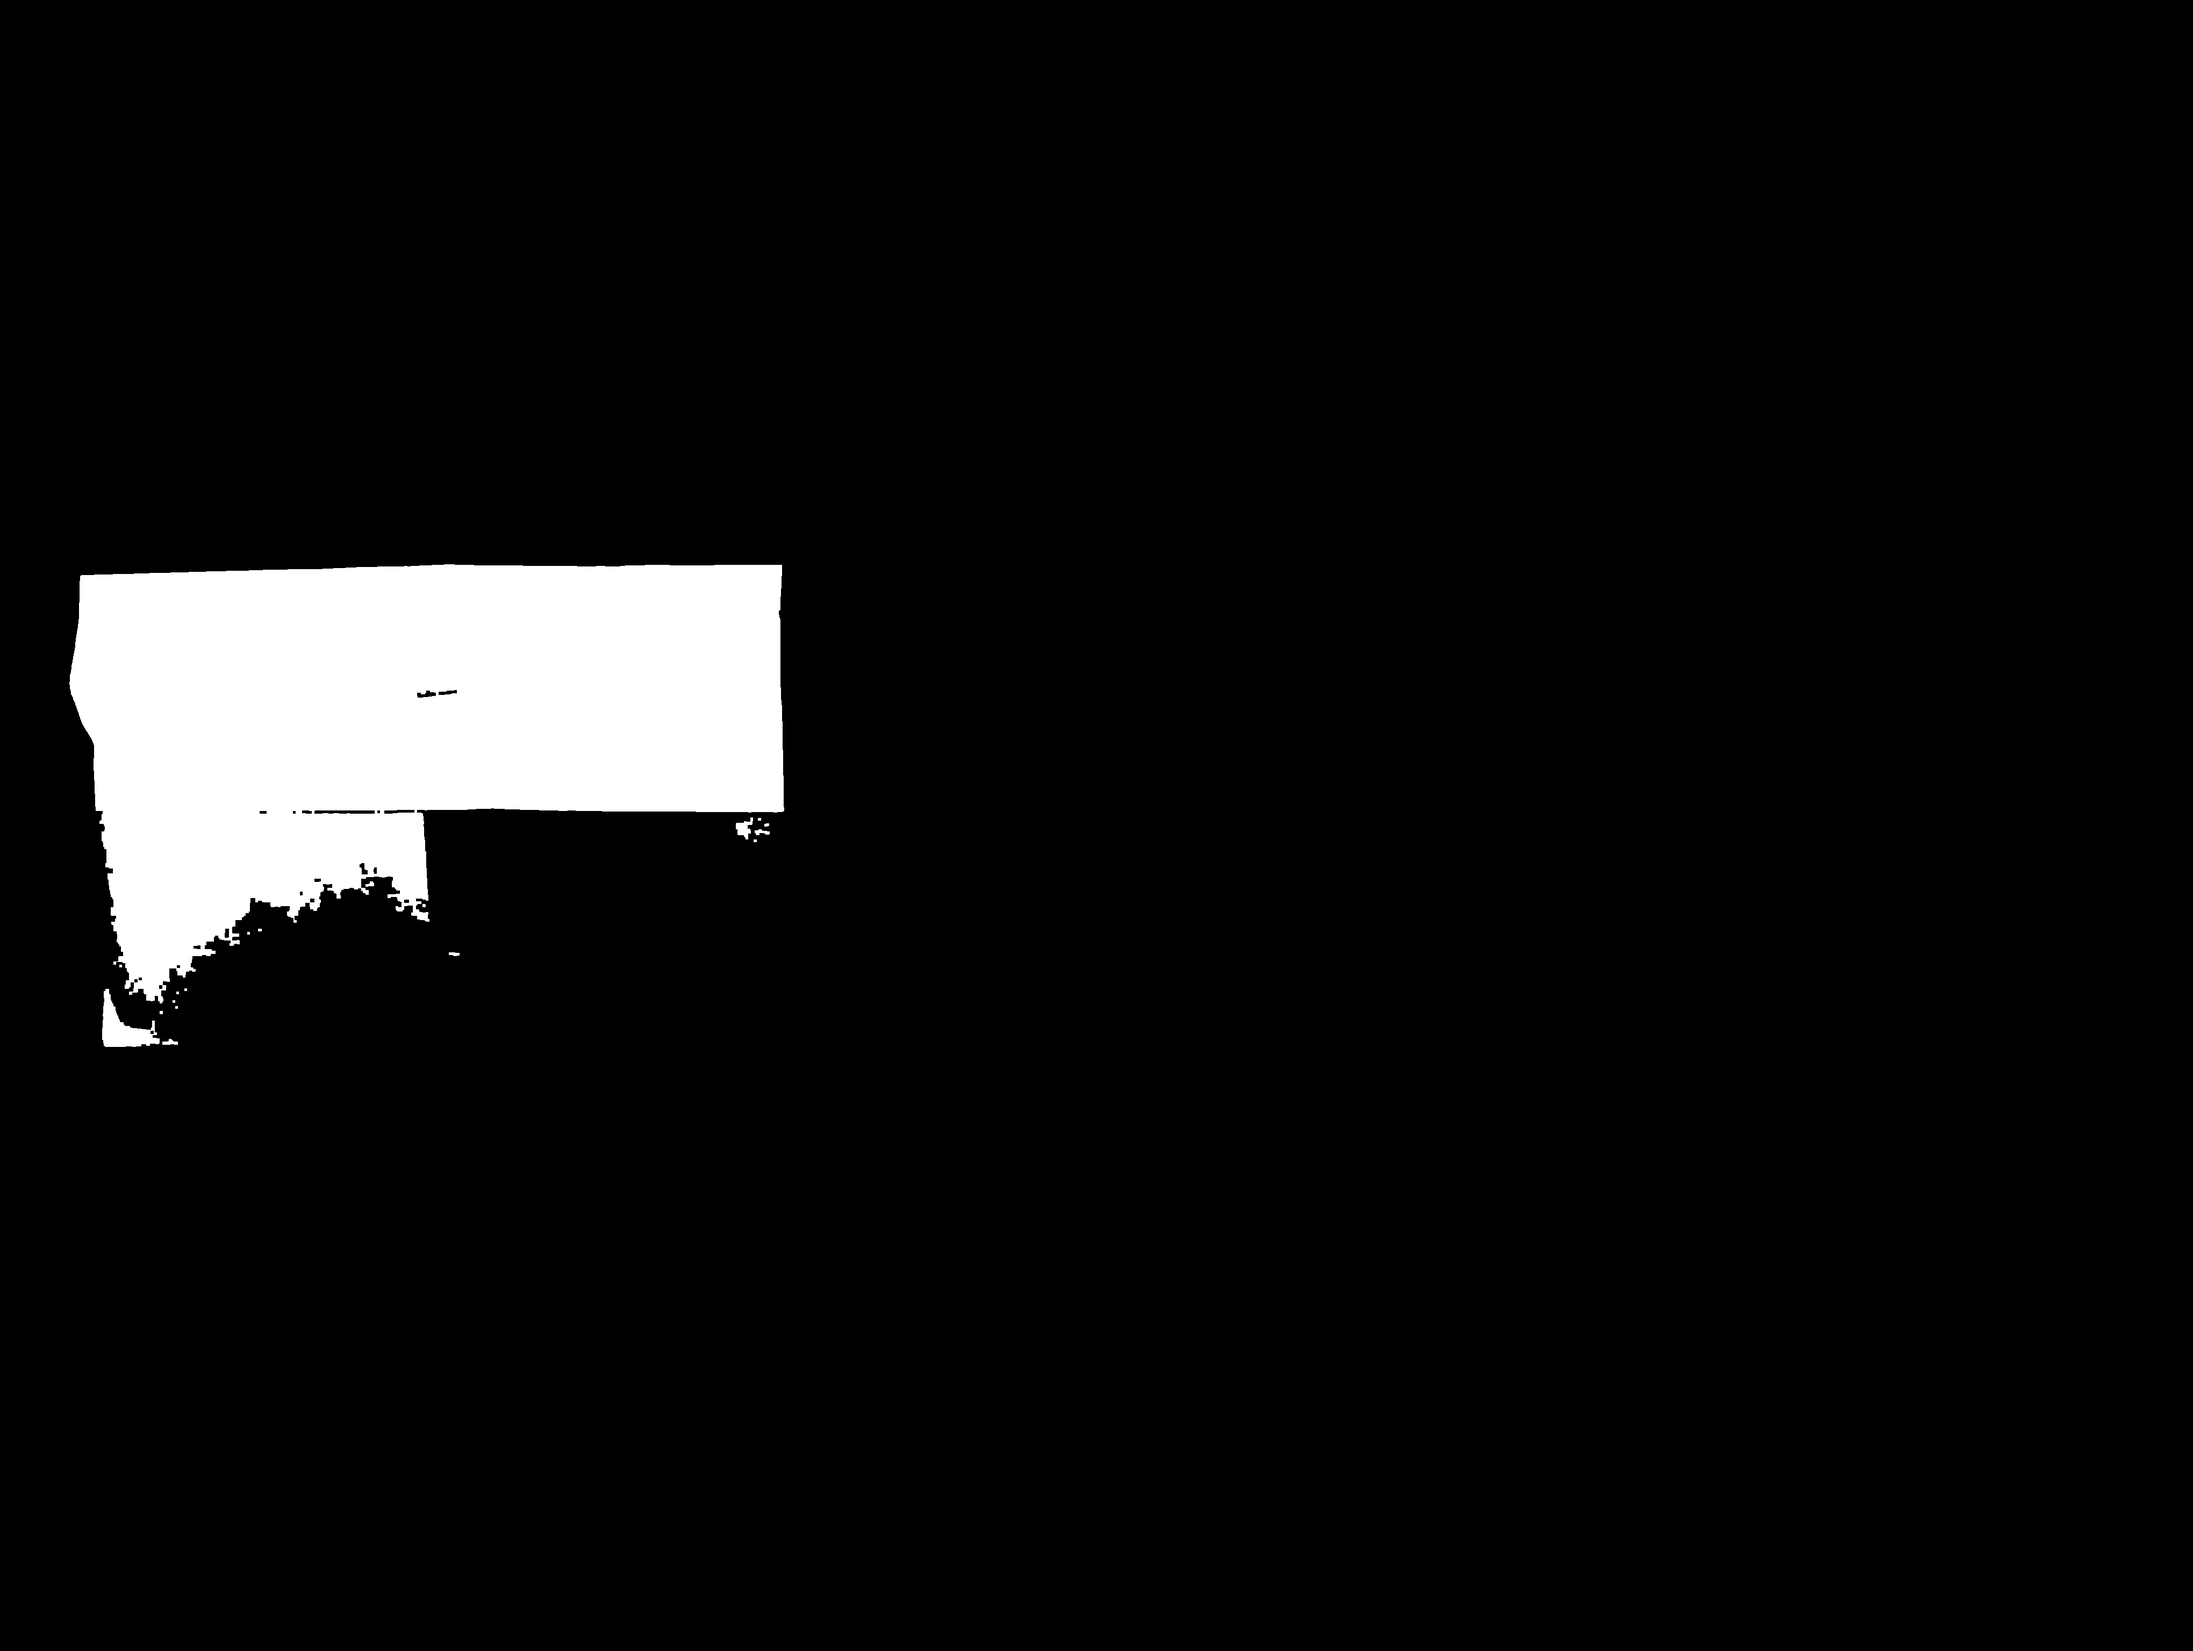
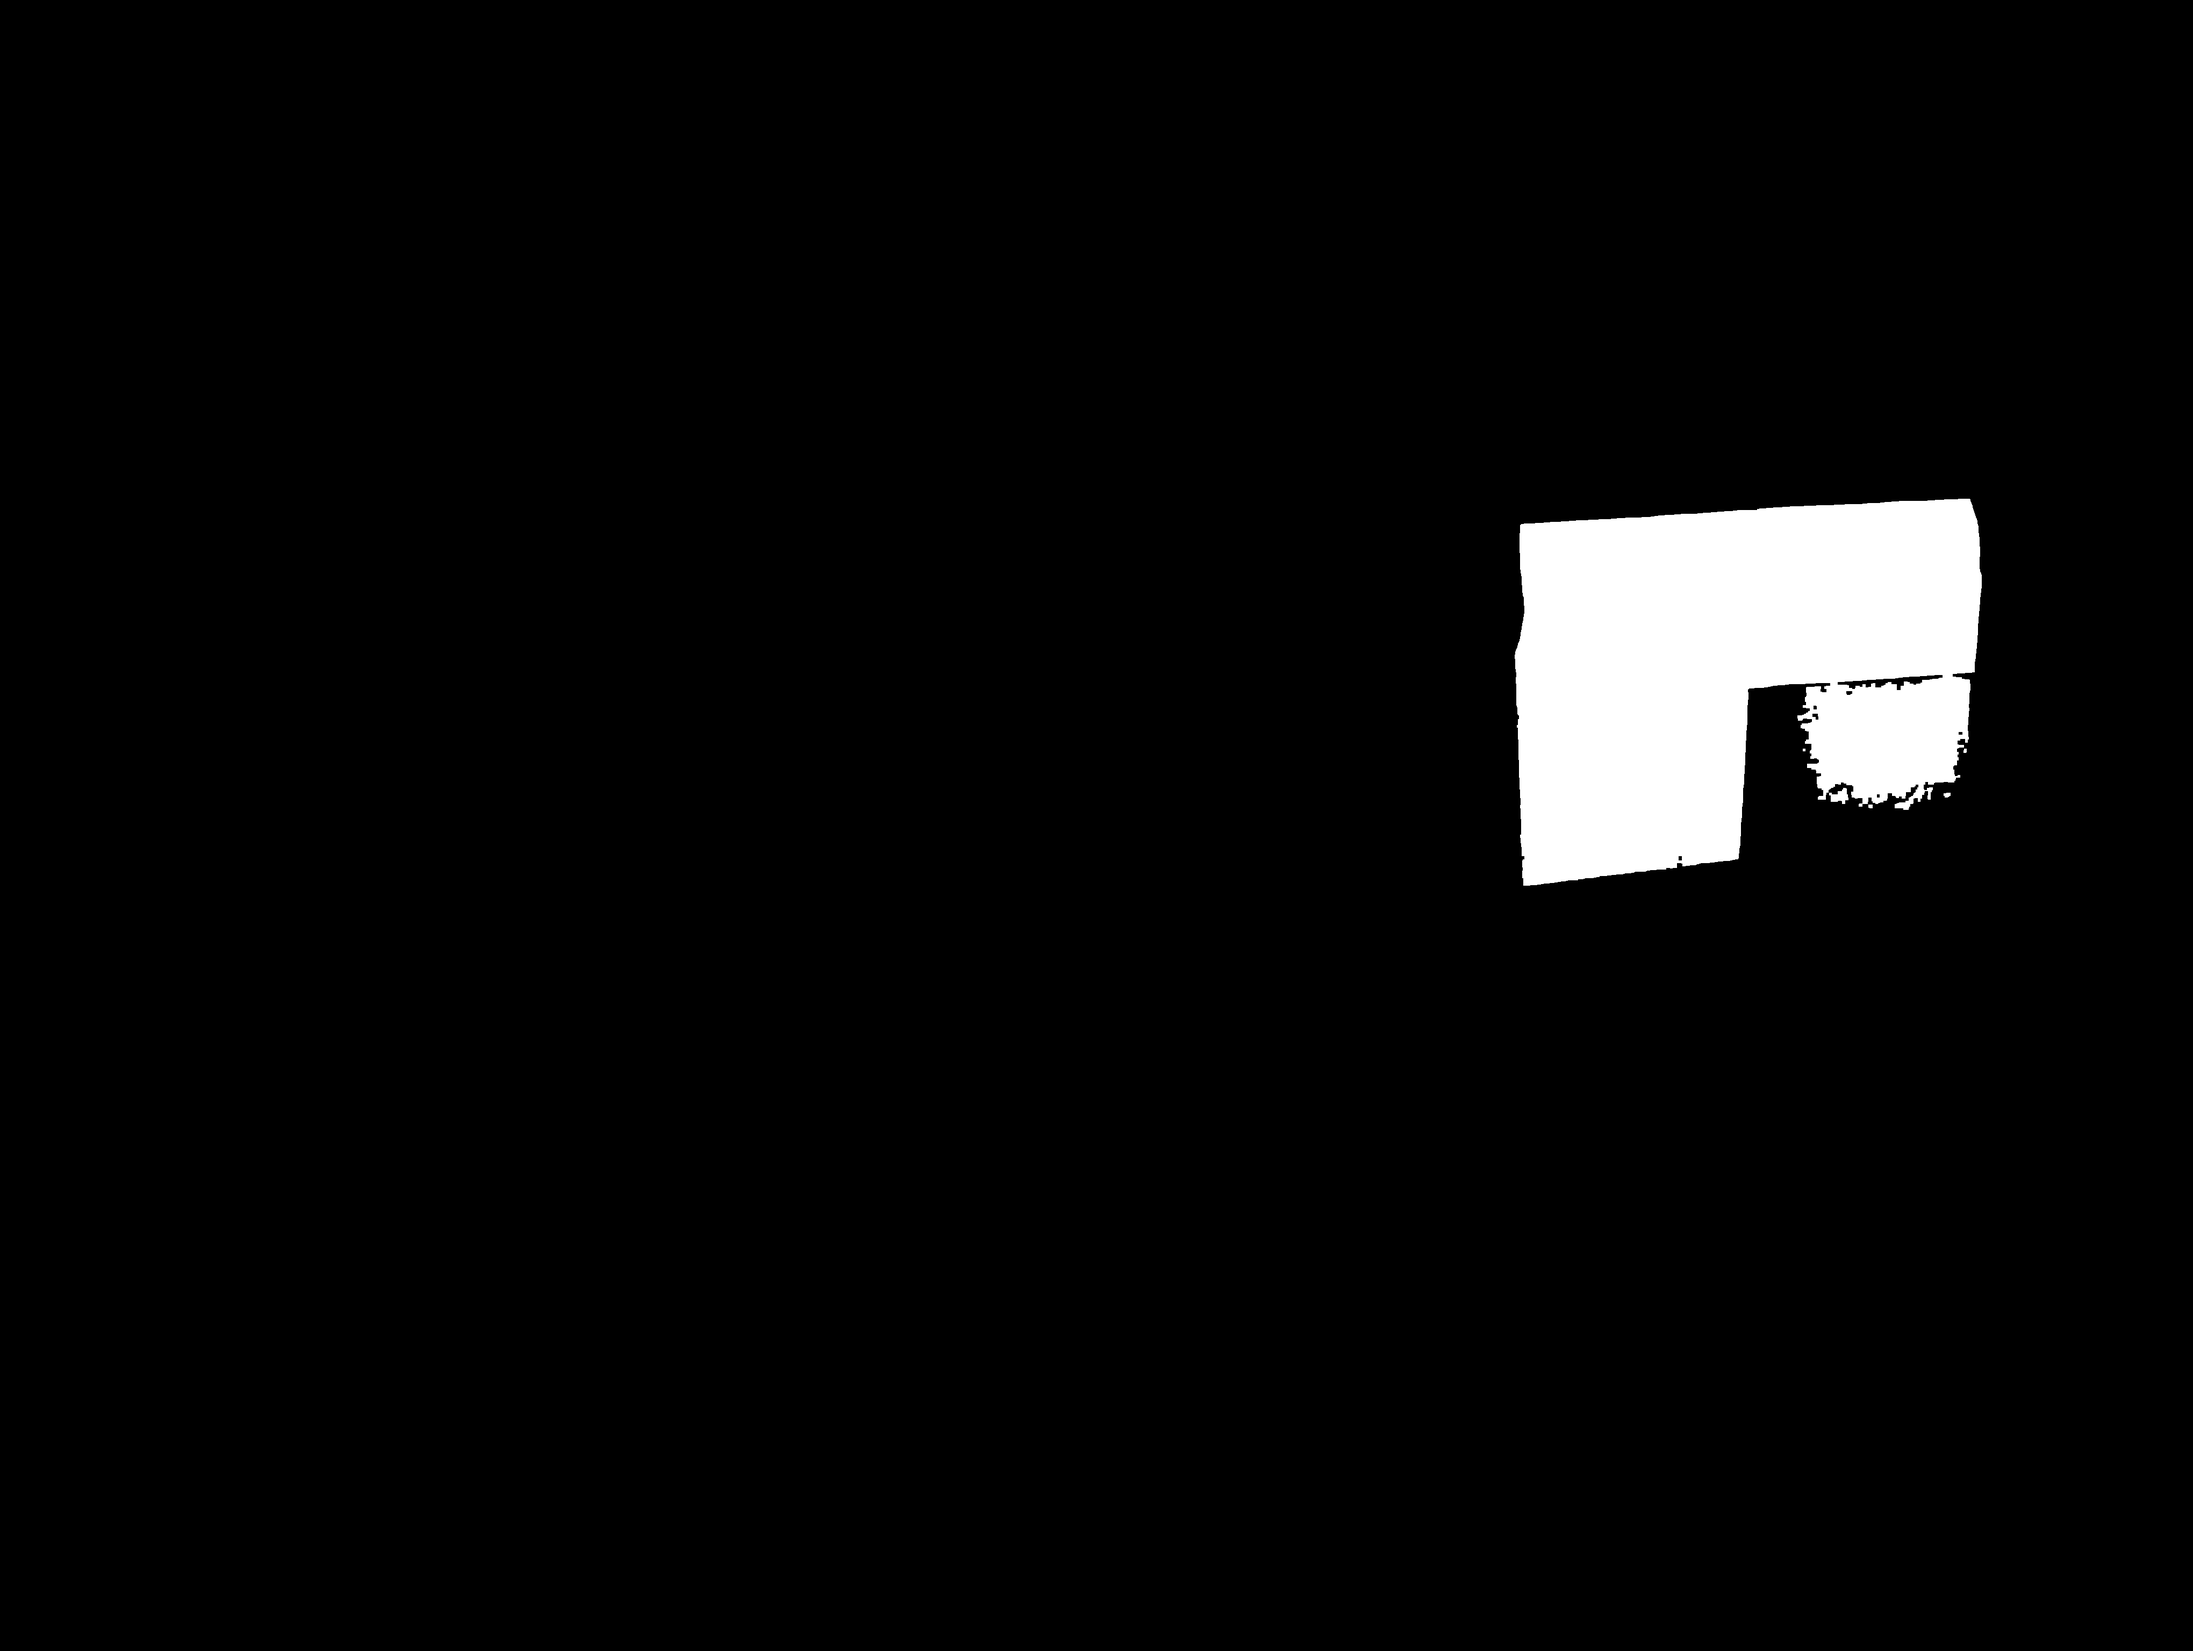
détection de la position de la balise

Changed region(s): [[0.0311, 0.3438, 0.3735, 0.6562], [0.6848, 0.2812, 0.9027, 0.5312]]

diff --git a/src/FWSFR/algo_detection/algo.py b/src/FWSFR/algo_detection/algo.py
@@ -2,7 +2,7 @@ import cv2
 import numpy as np
 
 # Nom du fichier image à traiter
-IMAGE_PATH = "photo5.jpg"  # À adapter selon ton image
+IMAGE_PATH = "photo7.jpg"  # À adapter selon ton image
 
 # Plages HSV des 4 couleurs de la balise
 PLAGES_HSV = {
@@ -41,3 +41,20 @@ if __name__ == "__main__":
     cv2.imwrite("masque_balise_final.png", masque)
     cv2.waitKey(0)
     cv2.destroyAllWindows()
+
+    # Détection de la position horizontale de la balise
+    moments = cv2.moments(masque)
+    if moments["m00"] != 0:
+        cx = int(moments["m10"] / moments["m00"])
+        largeur = masque.shape[1]
+
+        if cx < largeur / 3:
+            position = "gauche"
+        elif cx > 2 * largeur / 3:
+            position = "droite"
+        else:
+            position = "centre"
+
+        print(f"Balise détectée à : {position.upper()}")
+    else:
+        print("Aucune balise détectée dans l’image.")
